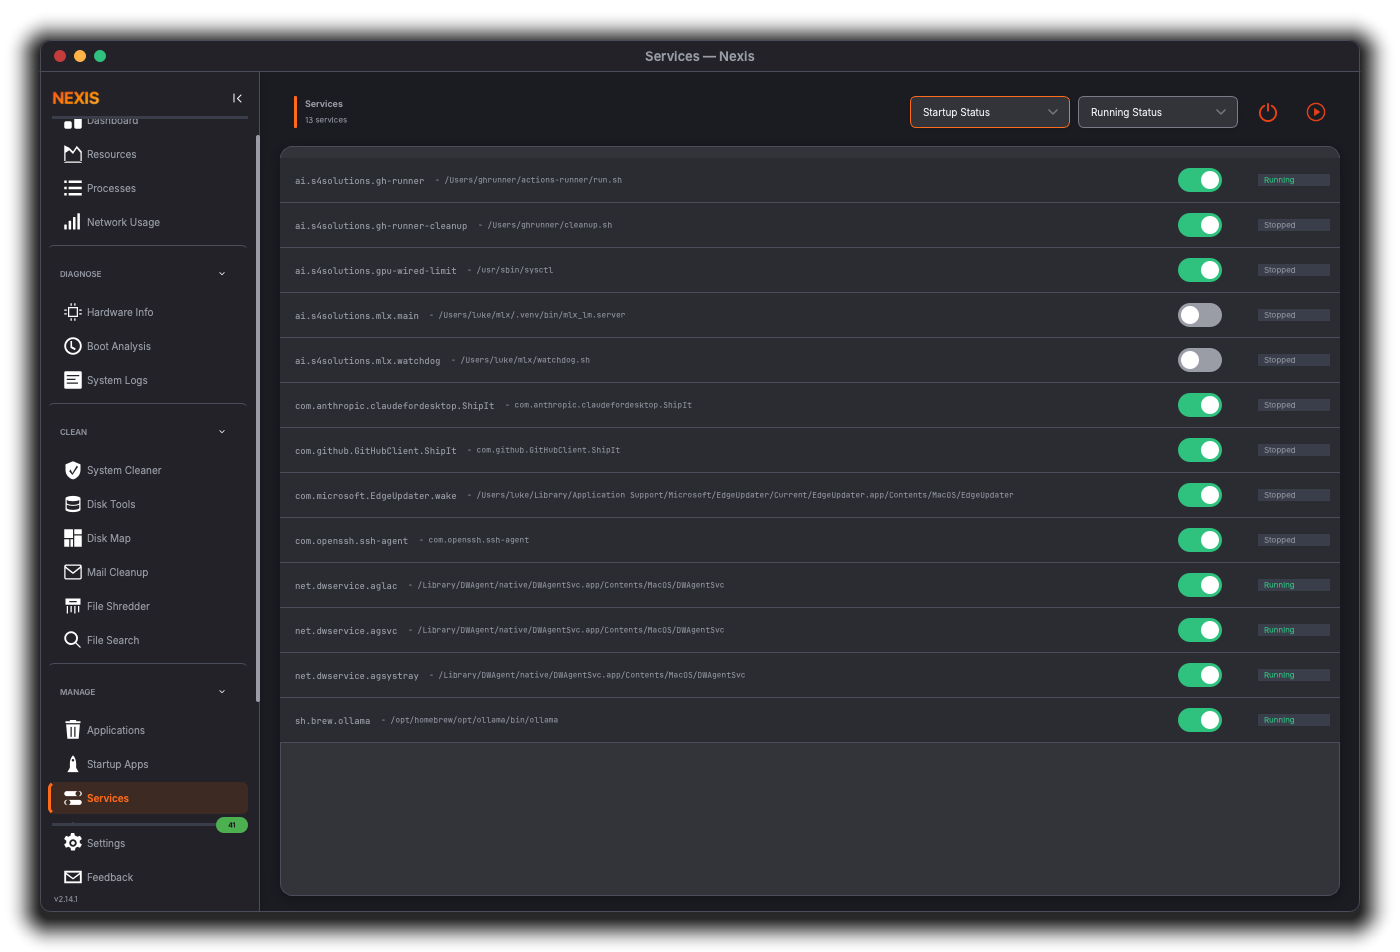
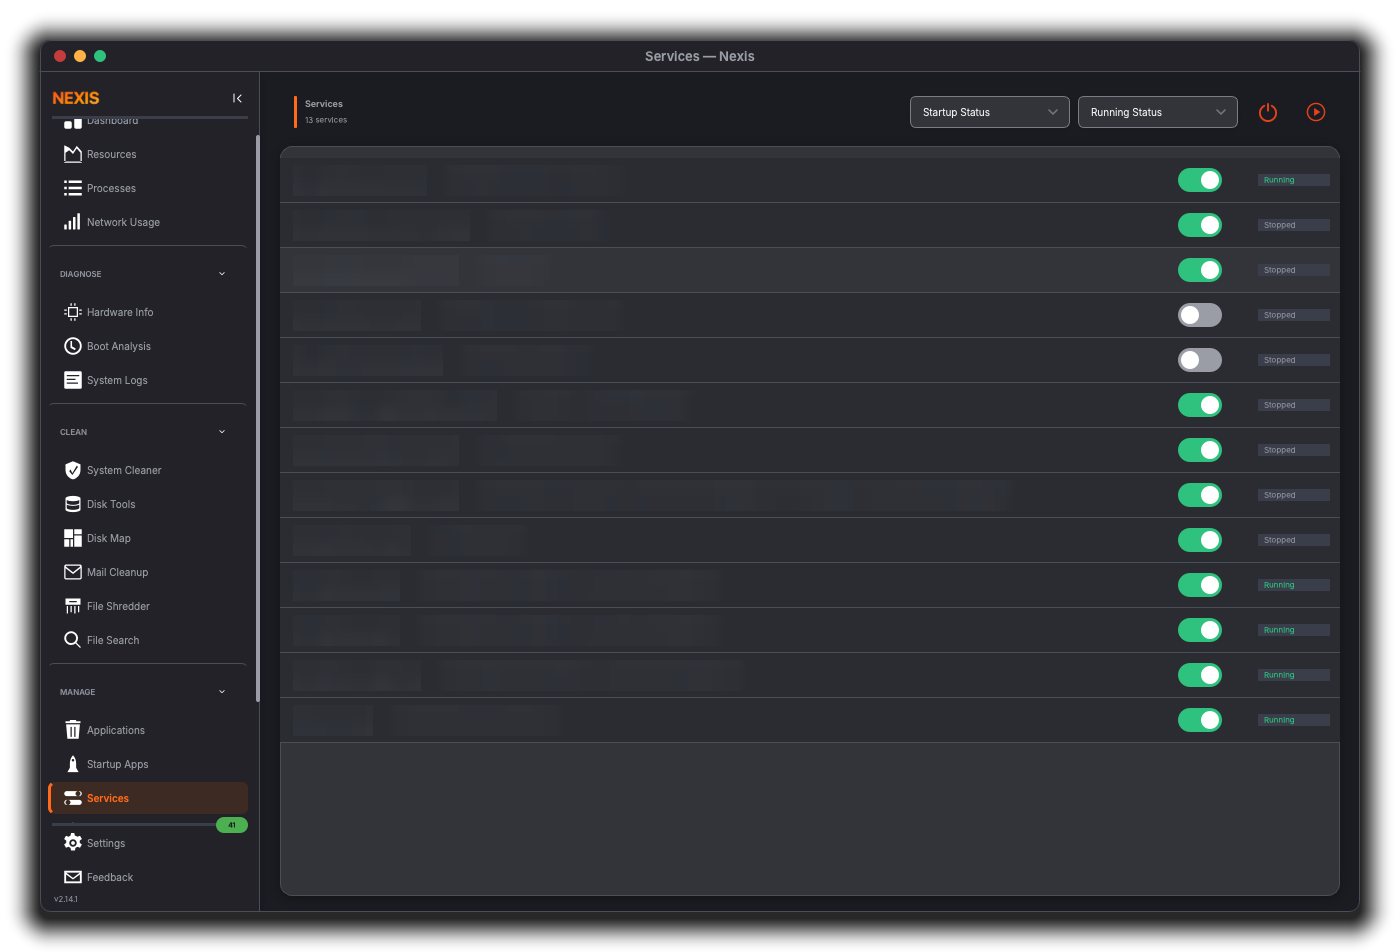
feat(docs): blur service and startup-item names in doc screenshots
Add a per-shot "blur" list to the capture manifest: DocCaptureRunner
blurs every visible widget with those object names (clipped by scroll
viewports) before framing, via DocCaptureFrame::blurRect (two-pass
downscale/upscale, so text is unreadable but the row keeps its tone).
A shot fails if none of its blur targets are visible.

Services (lblServiceName, lblServiceDescription) and Startup Apps
(lblStartupAppName, lblStartupAppPath, lblBtmRowName, lblBtmRowSubtext)
shots blur all names on both platforms, including the Linux AppStream
Nexis-07/08 shots. Tests cover parsing, validation, blurRect, and that
every Services/Startup Apps shot in the bundled manifest redacts names.

Recaptured guide/startup-apps.png, guide/services.png and
screenshots/services.png.

diff --git a/tests/utils/test_doc_capture_manifest.cpp b/tests/utils/test_doc_capture_manifest.cpp
@@ -62,6 +62,8 @@ private slots:
         QTest::newRow("click without target") << QByteArray(R"({"version":1,"shots":[{"file":"x.png","steps":[{"do":"click"}]}]})") << "click needs";
         QTest::newRow("wait too long") << QByteArray(R"({"version":1,"shots":[{"file":"x.png","steps":[{"do":"wait","seconds":9999}]}]})") << "seconds";
         QTest::newRow("scroll out of range") << QByteArray(R"({"version":1,"shots":[{"file":"x.png","steps":[{"do":"scroll","position":2}]}]})") << "position";
+        QTest::newRow("blur not array") << QByteArray(R"({"version":1,"shots":[{"file":"x.png","blur":"lblName"}]})") << "blur";
+        QTest::newRow("blur empty name") << QByteArray(R"({"version":1,"shots":[{"file":"x.png","blur":[""]}]})") << "blur";
         QTest::newRow("duplicate for platform") << QByteArray(R"({"version":1,"shots":[{"file":"x.png"},{"file":"x.png","platforms":["linux"]}]})") << "listed twice";
     }
 
@@ -73,6 +75,64 @@ private slots:
         const auto shots = DocCaptureManifest::parse(json, "macos", &error);
         QVERIFY(shots.isEmpty());
         QVERIFY2(error.contains(expected, Qt::CaseInsensitive), qPrintable(error));
+    }
+
+    void parsesBlurList()
+    {
+        const QByteArray json = R"({"version":1,"shots":[{"file":"x.png","blur":["lblA","lblB"]}]})";
+        QString error;
+        const auto shots = DocCaptureManifest::parse(json, "linux", &error);
+        QVERIFY2(error.isEmpty(), qPrintable(error));
+        QCOMPARE(shots.at(0).blur, QStringList({"lblA", "lblB"}));
+    }
+
+    // Services and Startup Apps list real service/agent names: every shot of
+    // those pages must redact them.
+    void bundledManifestBlursServiceAndStartupNames()
+    {
+        const QByteArray json = bundledManifest();
+        for (const char *platform : {"macos", "linux"}) {
+            QString error;
+            for (const DocCaptureShot &s : DocCaptureManifest::parse(json, QString::fromLatin1(platform), &error)) {
+                if (s.page == QLatin1String("services"))
+                    QVERIFY2(s.blur.contains("lblServiceName") && s.blur.contains("lblServiceDescription"), qPrintable(s.file));
+                if (s.page == QLatin1String("startupApps"))
+                    QVERIFY2(s.blur.contains("lblStartupAppName") && s.blur.contains("lblStartupAppPath"), qPrintable(s.file));
+            }
+        }
+    }
+
+    void blurRectRemovesDetailOnlyInsideRect()
+    {
+        // Alternating 1px black/white stripes: maximal detail.
+        QImage img(240, 120, QImage::Format_ARGB32_Premultiplied);
+        for (int y = 0; y < img.height(); ++y)
+            for (int x = 0; x < img.width(); ++x)
+                img.setPixelColor(x, y, (x % 2) ? Qt::white : Qt::black);
+
+        const QRect r(40, 20, 120, 60);
+        DocCaptureFrame::blurRect(img, r);
+
+        // Inside: neighbouring pixels are now nearly equal (stripes gone).
+        int maxStep = 0;
+        for (int x = r.left() + 4; x < r.right() - 4; ++x)
+            maxStep = qMax(maxStep, qAbs(img.pixelColor(x, r.center().y()).red()
+                                         - img.pixelColor(x + 1, r.center().y()).red()));
+        QVERIFY2(maxStep < 40, qPrintable(QString::number(maxStep)));
+
+        // Outside: untouched.
+        QCOMPARE(img.pixelColor(10, 10), QColor(Qt::black));
+        QCOMPARE(img.pixelColor(11, 10), QColor(Qt::white));
+        QCOMPARE(img.pixelColor(r.right() + 5, r.bottom() + 5).red() % 255, 0);
+    }
+
+    void blurRectClipsToImage()
+    {
+        QImage img(50, 50, QImage::Format_ARGB32_Premultiplied);
+        img.fill(Qt::red);
+        DocCaptureFrame::blurRect(img, QRect(40, 40, 100, 100));   // must not crash
+        DocCaptureFrame::blurRect(img, QRect(200, 200, 10, 10));   // fully outside: no-op
+        QCOMPARE(img.pixelColor(0, 0), QColor(Qt::red));
     }
 
     void samePathAllowedOncePerPlatform()

diff --git a/shared/nexis/Common/doc_capture_runner.cpp b/shared/nexis/Common/doc_capture_runner.cpp
@@ -293,6 +293,9 @@ void DocCaptureRunner::capture()
 
     if (target) {
         QImage image = shot.dialog.isEmpty() ? grabWithPopups(target) : target->grab().toImage();
+        const int blurred = blurWidgets(target, shot.blur, &image);
+        if (!shot.blur.isEmpty() && blurred == 0)
+            fail(QStringLiteral("blur: none of %1 visible").arg(shot.blur.join(", ")));
         const bool fullScreen = target->isFullScreen();
         if (mOptions.frame && shot.frame && !fullScreen)
             image = DocCaptureFrame::decorate(image, title, frameStyle());
@@ -378,6 +381,29 @@ QWidget *DocCaptureRunner::findDialog(const QString &title) const
             return top;
     }
     return nullptr;
+}
+
+int DocCaptureRunner::blurWidgets(QWidget *window, const QStringList &names, QImage *image) const
+{
+    const qreal dpr = image->devicePixelRatio() > 0 ? image->devicePixelRatio() : 1.0;
+    int count = 0;
+    for (const QString &name : names) {
+        for (QWidget *w : window->findChildren<QWidget*>(name)) {
+            if (!w->isVisible())
+                continue;
+            // visibleRegion() is already clipped by scroll viewports and
+            // parents, so rows scrolled out of view are skipped.
+            const QRect visible = w->visibleRegion().boundingRect();
+            if (visible.isEmpty())
+                continue;
+            const QRect inWindow(w->mapTo(window, visible.topLeft()), visible.size());
+            const QRect padded = inWindow.adjusted(-2, -2, 2, 2);
+            DocCaptureFrame::blurRect(*image, QRect(qRound(padded.x() * dpr), qRound(padded.y() * dpr),
+                                                    qRound(padded.width() * dpr), qRound(padded.height() * dpr)));
+            ++count;
+        }
+    }
+    return count;
 }
 
 QImage DocCaptureRunner::grabWithPopups(QWidget *window) const

diff --git a/shared/nexis/Common/doc_capture_frame.cpp b/shared/nexis/Common/doc_capture_frame.cpp
@@ -96,4 +96,27 @@ QImage decorate(const QImage &content, const QString &title, const Style &style)
     return out;
 }
 
+void blurRect(QImage &image, const QRect &rect)
+{
+    const QRect r = rect.intersected(image.rect());
+    if (r.width() < 2 || r.height() < 2)
+        return;
+
+    QImage region = image.copy(r);
+    // Two passes of a ~1/12 downscale with smoothing: glyph shapes are gone,
+    // the band keeps the row's tone so the screenshot still reads naturally.
+    for (int pass = 0; pass < 2; ++pass) {
+        const QSize small(qMax(1, region.width() / 12), qMax(1, region.height() / 12));
+        region = region.scaled(small, Qt::IgnoreAspectRatio, Qt::SmoothTransformation)
+                       .scaled(r.size(), Qt::IgnoreAspectRatio, Qt::SmoothTransformation);
+    }
+
+    QPainter p(&image);
+    p.setCompositionMode(QPainter::CompositionMode_Source);
+    QImage plain = region;
+    plain.setDevicePixelRatio(1.0);
+    const qreal dpr = image.devicePixelRatio() > 0 ? image.devicePixelRatio() : 1.0;
+    p.drawImage(QRectF(r.x() / dpr, r.y() / dpr, r.width() / dpr, r.height() / dpr), plain);
+}
+
 } // namespace DocCaptureFrame

diff --git a/shared/nexis/Common/doc_capture_manifest.cpp b/shared/nexis/Common/doc_capture_manifest.cpp
@@ -195,6 +195,18 @@ QList<DocCaptureShot> parse(const QByteArray &json, const QString &platform, QSt
         shot.page = o.value("page").toString();
         shot.dialog = o.value("dialog").toString();
         shot.frame = o.value("frame").toBool(true);
+
+        const QJsonValue blur = o.value("blur");
+        if (!blur.isUndefined()) {
+            if (!blur.isArray())
+                return fail(QStringLiteral("shot %1: \"blur\" must be an array of object names").arg(label));
+            for (const QJsonValue &b : blur.toArray()) {
+                const QString name = b.toString();
+                if (name.isEmpty())
+                    return fail(QStringLiteral("shot %1: \"blur\" entries must be non-empty object names").arg(label));
+                shot.blur << name;
+            }
+        }
         shot.settle = o.value("settle").toDouble(1.5);
         if (shot.settle < 0 || shot.settle > 60)
             return fail(QStringLiteral("shot %1: \"settle\" must be between 0 and 60").arg(label));

diff --git a/shared/nexis/Common/doc_capture_frame.h b/shared/nexis/Common/doc_capture_frame.h
@@ -3,6 +3,7 @@
 
 #include <QColor>
 #include <QImage>
+#include <QRect>
 #include <QString>
 
 // Draws neutral window chrome (title bar, rounded corners, drop shadow)
@@ -39,6 +40,11 @@ constexpr int kCornerRadius = 10;
 // pixels, with the content placed under the title bar. The returned image
 // carries the content's devicePixelRatio.
 QImage decorate(const QImage &content, const QString &title, const Style &style);
+
+// Redact a rectangle (device pixels) in place: heavy downscale/upscale so
+// text inside is unreadable while the area keeps its overall color and
+// shape. The rectangle is clipped to the image.
+void blurRect(QImage &image, const QRect &rect);
 
 } // namespace DocCaptureFrame
 

diff --git a/shared/nexis/Common/doc_capture_manifest.h b/shared/nexis/Common/doc_capture_manifest.h
@@ -51,6 +51,7 @@ struct DocCaptureShot
     double settle = 1.5;     // seconds to wait after navigation, before steps
     QString dialog;          // non-empty: capture the top-level window with this title
     bool frame = true;       // draw window chrome + shadow around the capture
+    QStringList blur;        // objectNames whose visible widgets are blurred (redaction)
 };
 
 namespace DocCaptureManifest {

diff --git a/shared/nexis/Common/doc_capture_runner.h b/shared/nexis/Common/doc_capture_runner.h
@@ -49,6 +49,7 @@ private:
     QWidget *findButtonByText(const QString &text) const;
     QWidget *findDialog(const QString &title) const;
     QImage grabWithPopups(QWidget *window) const;
+    int blurWidgets(QWidget *window, const QStringList &names, QImage *image) const;
     void fail(const QString &reason);
 
     QWidget *mWindow;

diff --git a/docs/SCREENSHOTS.md b/docs/SCREENSHOTS.md
@@ -51,9 +51,10 @@ Captures come out at the display's pixel density: on a Retina or 200%-scaled dis
 
 - **Hostname.** The Dashboard system bar and Hardware Info show the machine's hostname. Use a machine
   or session whose hostname you're happy to publish.
-- **Live data.** Processes, Services, Startup Apps, the Uninstaller and System Logs show what's
-  actually on the machine. Review those shots for internal service names, usernames and private paths
-  before committing them. Disk Map scans `/Applications` on macOS and `/usr` on Linux, never your home
+- **Live data.** Every name and path on the Services and Startup Apps pages is blurred automatically
+  (the manifest's `blur` lists), on both platforms. Processes, the Uninstaller and System Logs still
+  show what's actually on the machine; review those shots for usernames and private paths before
+  committing them. Disk Map scans `/Applications` on macOS and `/usr` on Linux, never your home
   folder.
 - **Linux specifics.** Run on Ubuntu 26.04 with GNOME (the reference platform). Docker must be running
   with at least one container for `docker.png` and `Nexis-12.png`. `Nexis-04.png` needs an NVIDIA or AMD
@@ -79,6 +80,7 @@ failed, re-run just that file with `--capture-only <name>.png`.
     "steps": [ { "do": "click", "object": "btnAdvancePaneToggle" } ],
     "after": [ { "do": "click", "object": "btnAdvancePaneToggle" } ],
     "dialog": "",                                        // capture this window title instead
+    "blur": ["lblServiceName"],                          // objectNames to blur (redaction)
     "frame": true }
 ] }
 ```
@@ -87,7 +89,8 @@ Steps: `click` (`object` = objectName, or `text` = button label), `setText` (lin
 combo), `wait` (`seconds`), `waitEnabled` (`object`, `seconds` timeout), `waitUptime` (wait until the
 app has run `seconds`), `scroll` (`position` 0–1 of the page's main scroll area), `expandTrees`, `sort`
 (`text` = column header, `order` asc/desc), `showPalette`, `key` (`text` = key sequence, e.g.
-`Escape`), `closeDialog` (`text` = window title). Page ids are the `PageSlot` ids in `app.cpp`
+`Escape`), `closeDialog` (`text` = window title). `blur` blurs every visible widget with the listed
+object names (clipped to what's on screen) before the frame is added; the shot fails if none are visible. Page ids are the `PageSlot` ids in `app.cpp`
 (`dashboard`, `resources`, `processes`, `networkUsage`, `hardwareInfo`, `bootAnalysis`, `systemLogs`,
 `systemCleaner`, `diskTools`, `diskMap`, `mailCleanup`, `shredder`, `search`, `uninstaller`,
 `startupApps`, `services`, `aptSourceManager` (Homebrew on macOS), `docker`, `helpers`, `gnomeSettings`,
